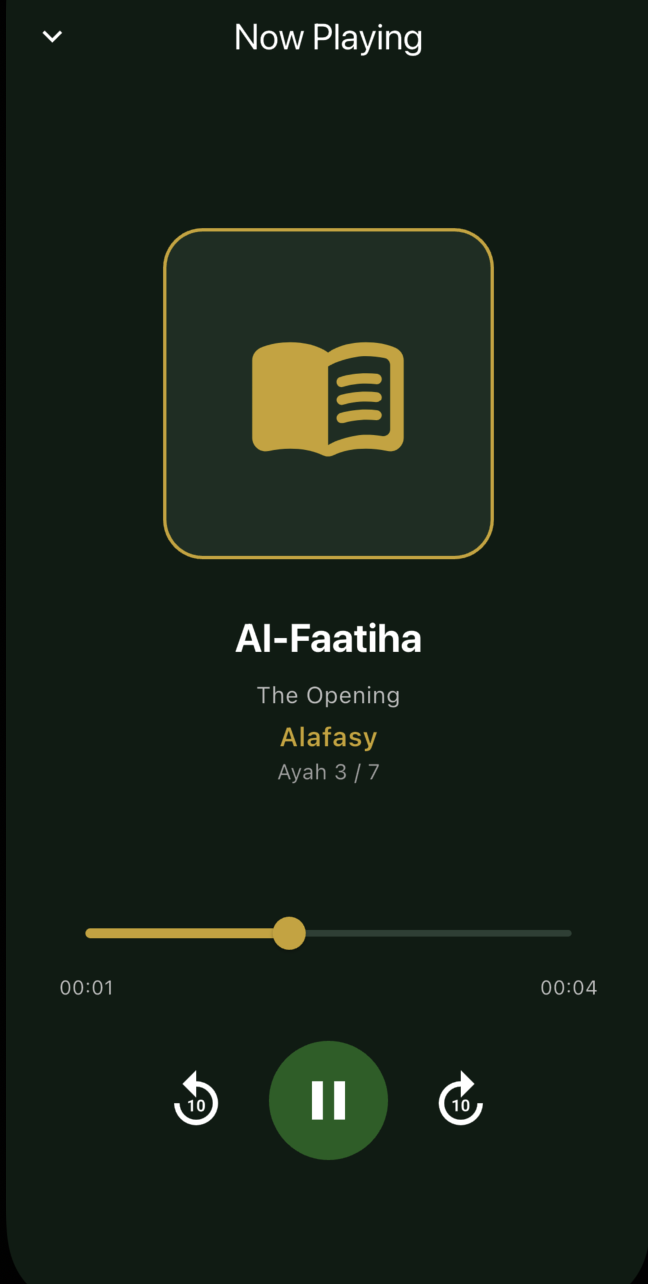
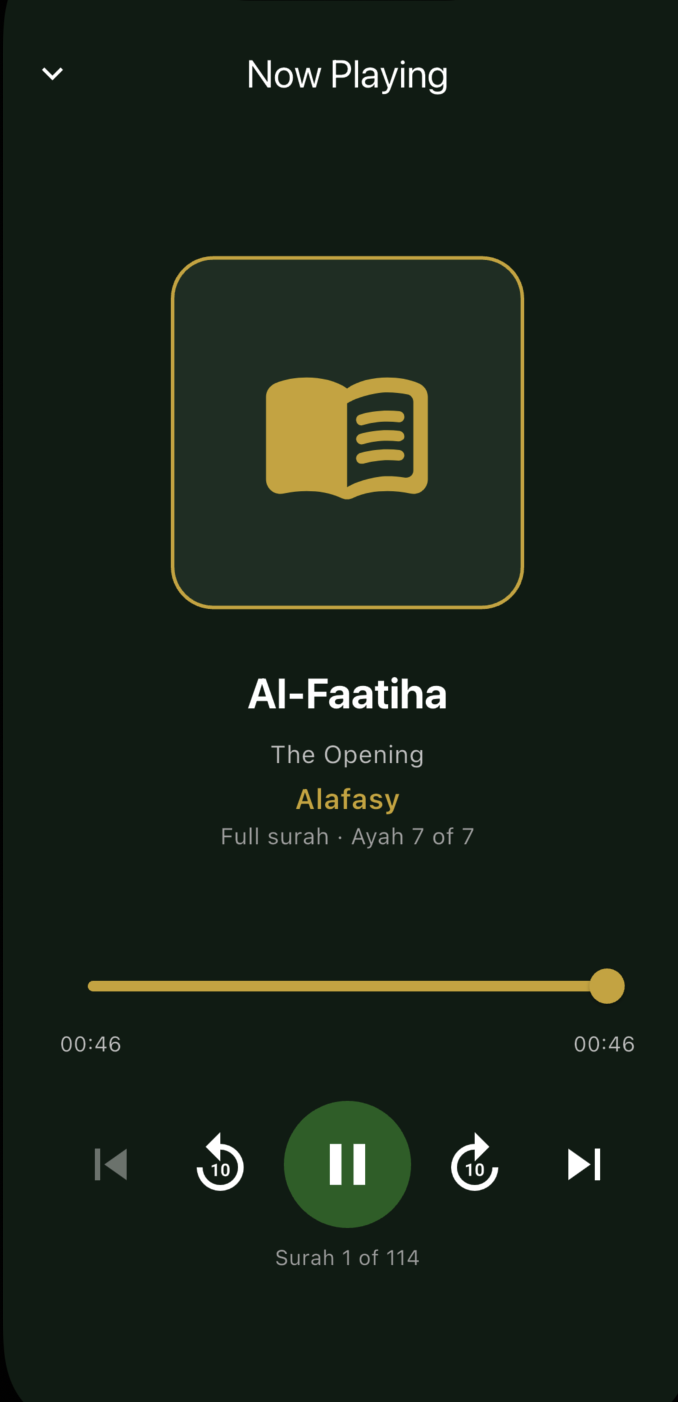
fix: update readme screenshot image

diff --git a/README.md b/README.md
@@ -84,12 +84,7 @@ flutter analyze
 <p align="center">
   <sub>Home · Player</sub>
 </p>
-
-Suggested captures:
-
-1. Home — surah list + search + reciter dropdown  
-2. Player — now playing with progress slider  
-3. Mini player bar on home after returning from player  
+ 
 
 ## License
 